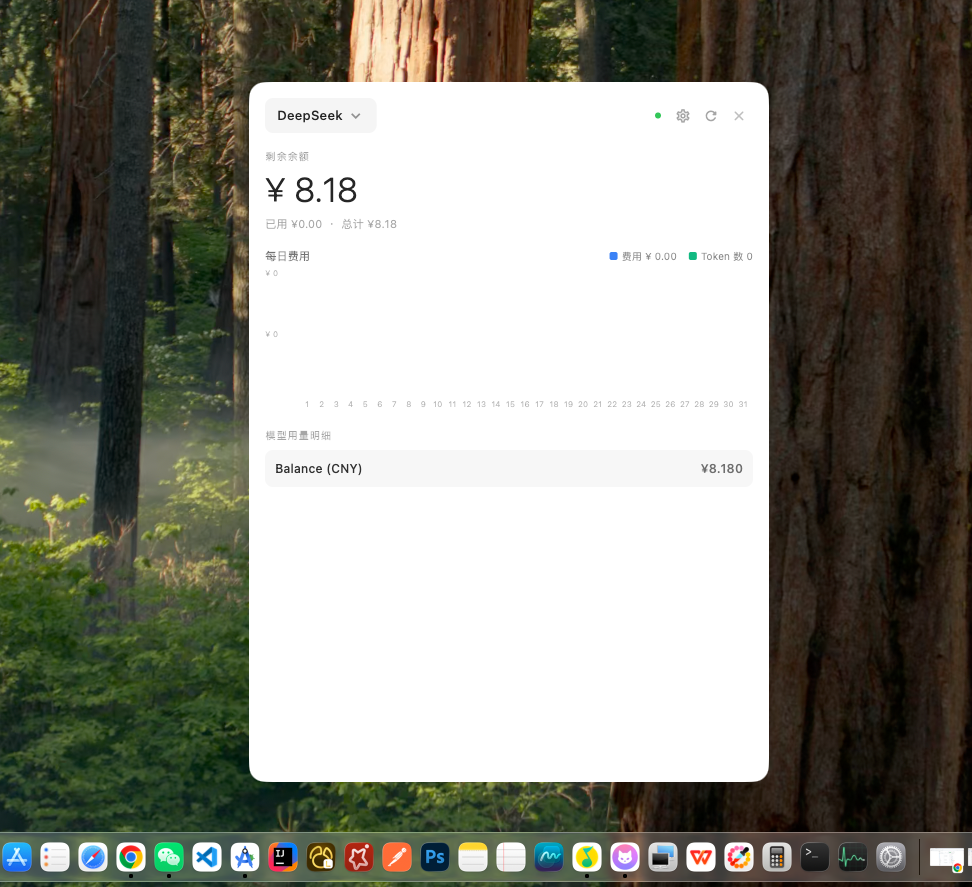
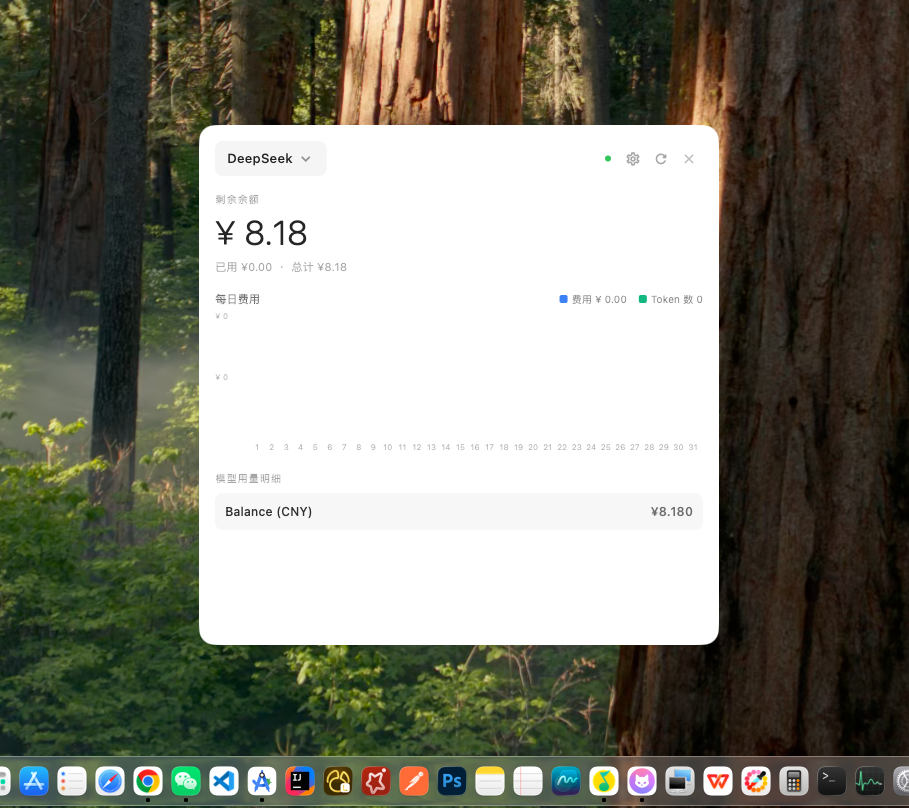
fix(ui): 修复主窗口尺寸设置问题
- 将主窗口高度从 700 调整为 520
- 统一窗口尺寸配置以改善界面布局

diff --git a/lib/main.dart b/lib/main.dart
@@ -11,7 +11,7 @@ import 'ui/dashboard_view.dart';
 import 'ui/tray_popup_view.dart';
 
 const _kPopupSize = Size(250, 190);
-const _kFullSize = Size(520, 700);
+const _kFullSize = Size(520, 520);
 
 void main() async {
   WidgetsFlutterBinding.ensureInitialized();